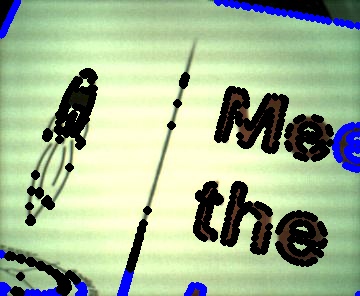
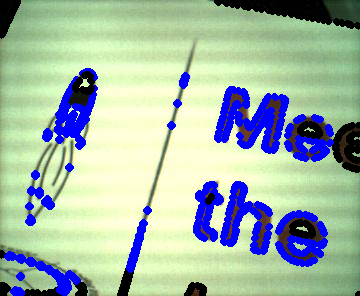
vytovrenie pomocneho scriptu kde si skusam omaskovanie objectov a ich rotacie

diff --git a/pomocne/tile.py b/pomocne/tile.py
@@ -1,0 +1,84 @@
+import cv
+from random import random
+import sys
+import math
+
+
+def GetOutlines(image):
+  image_size = cv.GetSize(image)
+
+  # create grayscale version
+  grayscale = cv.CreateImage(image_size, 8, 1)
+  cv.CvtColor(image, grayscale, cv.CV_BGR2GRAY)
+  cv.EqualizeHist(grayscale, grayscale)
+
+  # create storage
+  storage = cv.CreateMemStorage(0)
+
+  # detect objects
+  cv.Threshold(grayscale, grayscale, 50, 255, cv.CV_THRESH_BINARY)
+  contours = cv.FindContours(grayscale, cv.CreateMemStorage(), cv.CV_RETR_TREE, cv.CV_CHAIN_APPROX_SIMPLE)
+  #mame kontury potrebujeme fyziku
+  #cv.DrawContours(image, self.contours, cv.RGB(255, 110, 0),cv.RGB(0, 255, 0), 10, 1)
+  #if len(contours) > 0:
+  #  contours = cv.ApproxPoly (contours, storage, cv.CV_POLY_APPROX_DP, 1.5, 1)
+  return contours
+
+def GetObjectOutline(cont,h=0,v=0, objects=[]):
+  
+  if v==1:
+    objects.append(cont)
+  
+  if cont.v_next():
+    v += 1
+    GetObjectOutline(cont.v_next(),h,v,objects)
+    v -= 1
+
+  if cont.h_next():
+    h += 1
+    GetObjectOutline(cont.h_next(),h,v,objects)
+  
+  return objects
+
+
+
+
+src = cv.LoadImageM("../images/test.png")
+image_size = cv.GetSize(src)
+
+contours = GetOutlines(src)
+objectOutline = GetObjectOutline(contours)
+masks = []
+for poly in objectOutline:
+  temp = cv.CreateMat(image_size[1],image_size[0], cv.CV_8UC1)
+  cv.FillPoly(temp, [poly], (255,255,255))
+  masks.append(temp)
+  
+ 
+objects = []
+for mask in masks:
+  dst = cv.CreateImage(image_size, 8, 3)
+  cv.Copy(src, dst, mask)
+  objects.append(dst)
+
+output = cv.CreateImage(image_size, 8, 3)
+angle = 0
+while 1:
+  cv.Set(output, (0,0,0))
+  dst = cv.CreateImage(image_size, 8, 3)
+  mapMatrix = cv.CreateMat(2,3,cv.CV_32F)
+  for object in objects:
+    rotMatrix = cv.GetRotationMatrix2D((0,0), angle, 1.0, mapMatrix)
+    cv.WarpAffine(object, dst, mapMatrix)
+    cv.Or(dst, output, output)
+    
+    
+  angle += 1
+  cv.ShowImage('Camera', output)
+ 
+  k = cv.WaitKey(10)
+
+  if k != -1:
+    print 'Exiting ...'
+    break
+

diff --git a/test_empty.py b/test_empty.py
@@ -105,7 +105,7 @@ class Empty(Framework):
         #a = 1.5
         #sd.SetAsBox(a, a)
         sd.density = 1.0
-        sd.restitution = 0.1
+        sd.restitution = 0.6
         sd.friction = 0.1
         x=box2d.b2Vec2(0, 0)
         for i in range(count):
@@ -327,21 +327,8 @@ class Empty(Framework):
         If placed at the beginning, it will cause the actual physics step to happen first.
         If placed at the end, it will cause the physics step to happen after your code.
         """
-        #if self.step % 200 == 0:
-        #  self.CreateRandomBoxes(1)
-          #self.CreateRandomSpheres(100)
 
-#        if self.step % 200 == 0:
-#          self.DestroyContours()
-#          self.DestroyObjects()
-#          self.GetFrame()
-#          self.CreateObjectsFromCountours(self.contours)
-
-        #r = random()*20
-        #cont = ((40+r,40+r),(45+r,40+r),(45+r,45+r),(41+r,51+r))
-        #self.pulsar.setVertices(cont)
         super(Empty, self).Step(settings)
-
 
         # do stuff
 

diff --git a/pomocne/img.py b/pomocne/img.py
@@ -4,7 +4,7 @@ import cv
 
 def printCont(img,cont,h=0,v=0,col = (0,0,0)):
 
-  if v==0:
+  if v==1:
     print str((h,v)) + "*"
     col = (255,0,0)
   else:
